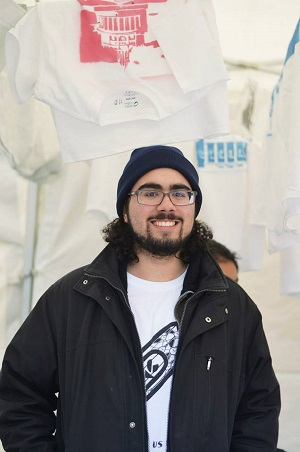
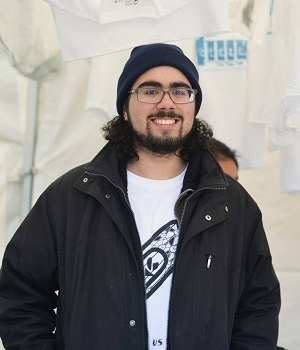
CSS and image resize
Added a bunch of styling for page and for navigation elements.
Resized pictures to internet-appropriate size and cropped for consistency.

diff --git a/css/styles.css b/css/styles.css
@@ -1,0 +1,45 @@
+body {
+  color:  #660066;
+  background-color: #ffffcc;
+  text-align: center;
+  font-family: Arial, Helvetica, sans-serif;
+}
+
+.container {
+  margin: 0 auto;
+  width: 90%;
+  max-width: 960px;
+}
+
+header {
+  border-bottom: 5px solid #ff6600;
+  padding-bottom: 5px;
+  margin-bottom: 15px;
+  font-size: 25px;
+}
+
+h2 {margin-top: 50px;}
+
+p {
+  text-align: justify;
+  font-size: 20px;
+  line-height: 1.2;
+}
+
+article p:first-of-type{text-align: center;}
+
+a {
+  text-decoration: none;
+  font-weight: bold;
+  color:  #00cccc;
+}
+
+a:hover {color:  #33ffff;}
+
+img.mySlides {
+  display: block;
+  margin-left: auto;
+  margin-right: auto;
+  margin-top: 30px;
+  margin-bottom: 15px;
+}

diff --git a/css/navigation.css b/css/navigation.css
@@ -1,5 +1,32 @@
 .menu .is-current {
-	color: black;
+	color: #ffffcc;
+	background-color: #660066;
 	font-weight: bold;
 	font-size: 30px;
+	border: ;
+}
+
+.menu ul{
+  list-style-type: none;
+	margin-top: 0px;
+	margin-bottom: 0px;
+	padding-left: 0px;
+  text-align: center;
+}
+
+.menu ul li{
+  display: inline-block;
+}
+
+.menu ul li a{
+  display: block;
+  font-weight: bold;
+	font-size: 25px;
+  color:  #ff5500;
+  padding: 20px;
+}
+
+.menu ul li a:hover{
+	color: #ffffcc;
+  background-color:  #ff6600;
 }
